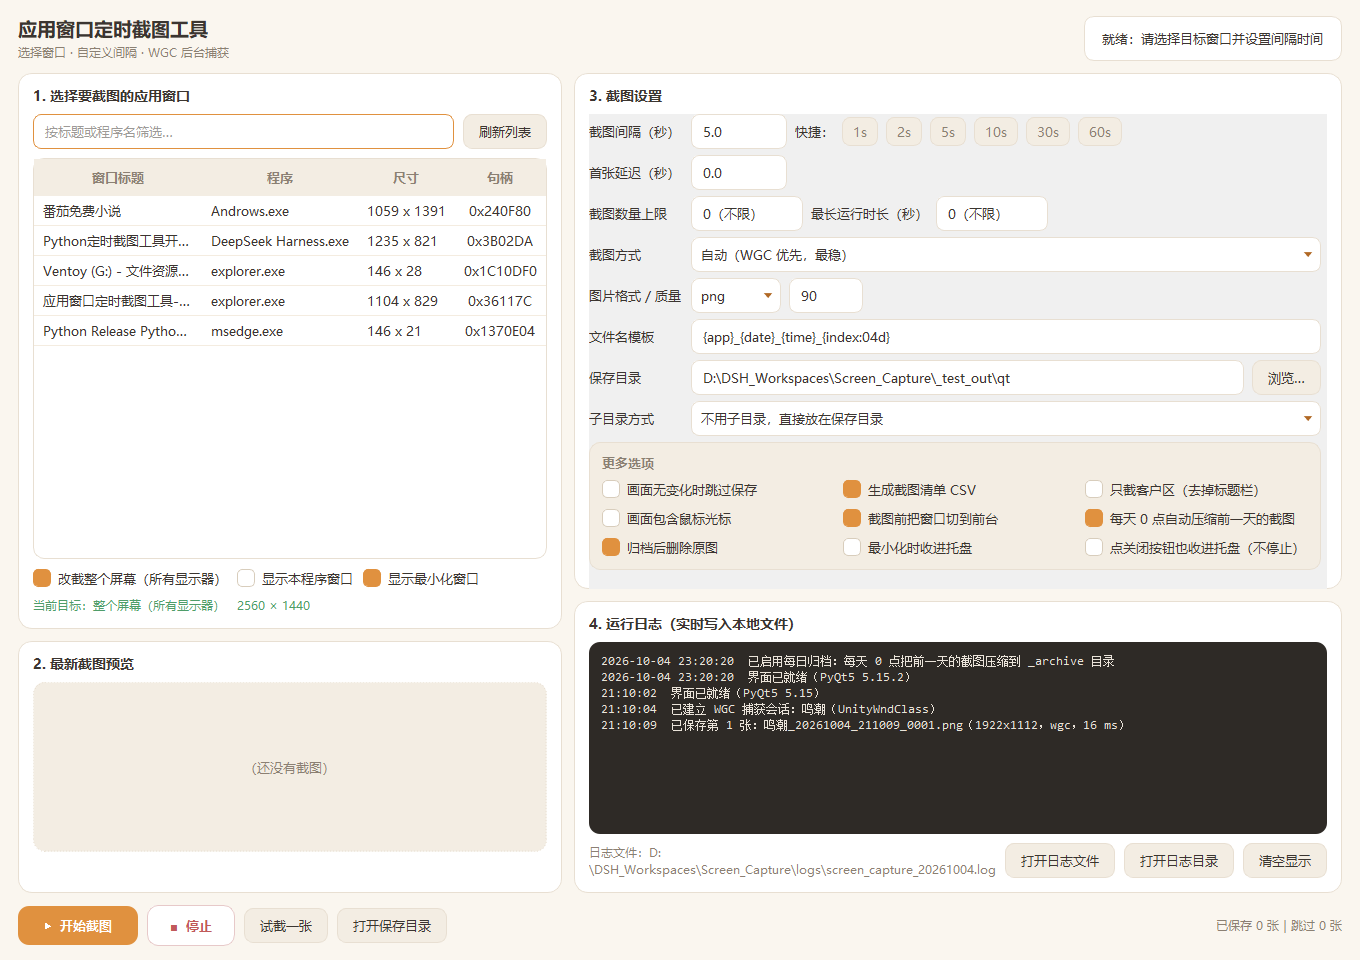
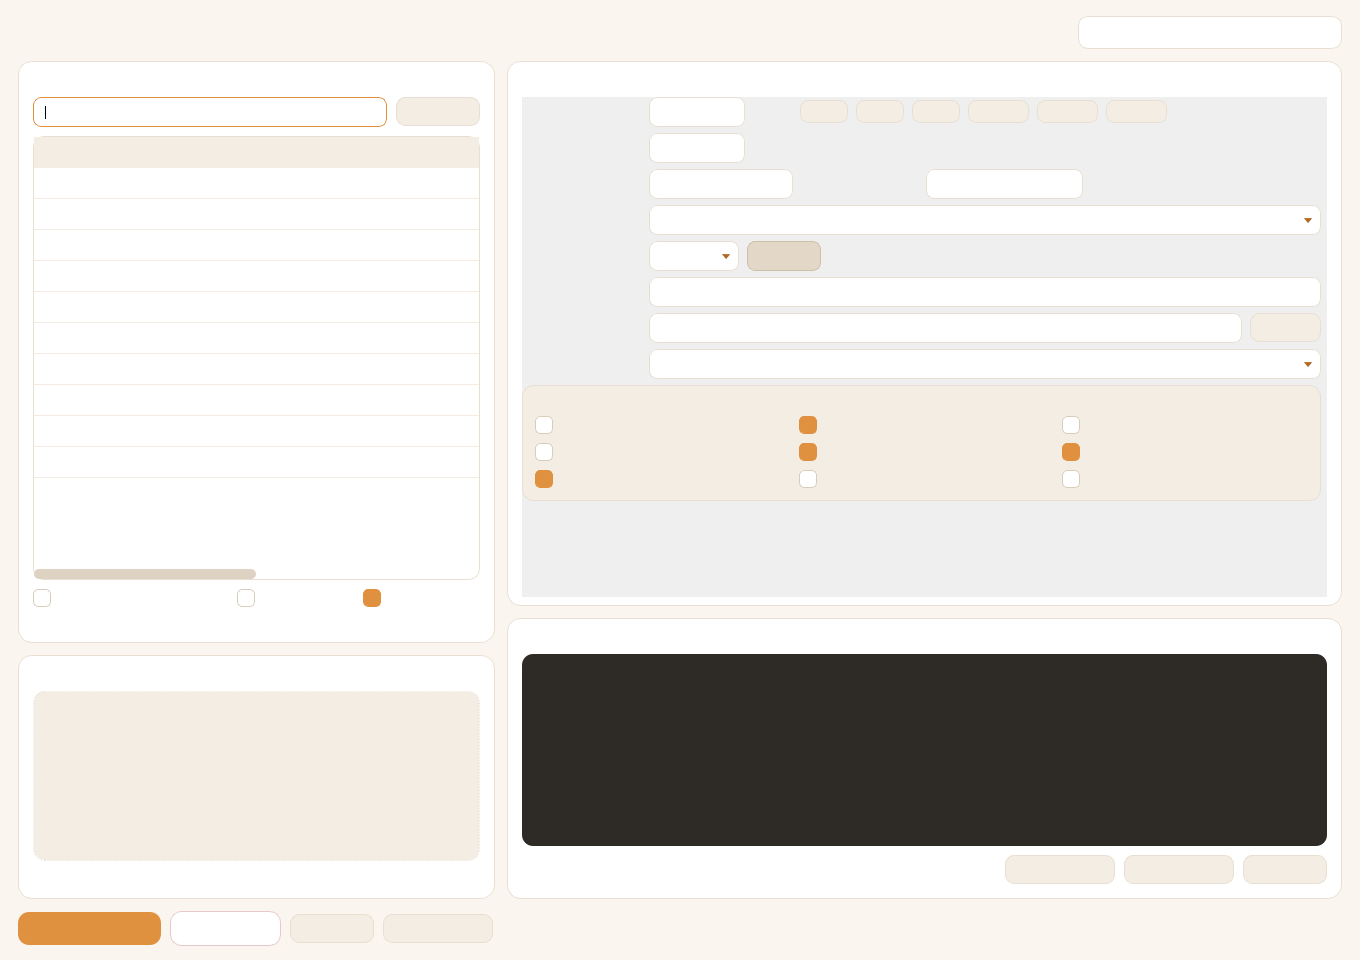
禁用态一眼可见：加深输入框底色与边框（并修掉 Qt 样式表坑）
反馈：选到 PNG/BMP 时质量框虽然禁用了，但看起来和可编辑没区别。
- 禁用态改用明显加深的填充 #e3d8c7 + 边框 #cdbfa8 + 灰字，与启用态白底 #ffffff 一眼可分
- 踩坑记录：给 QSpinBox:disabled::up-button 单独设样式会让 Qt 把禁用配色画到启用态上，
  导致启用/禁用长得一样（已删除该规则，并加回归测试用像素颜色守住）
- 测试隔离：质量用例会切换格式并写回设置，导致后续截图用例写出 .jpg；setUp 里重置为 png
- 版本 1.0.9

diff --git a/tests/test_gui_qt.py b/tests/test_gui_qt.py
@@ -51,6 +51,12 @@ class QtUiTests(unittest.TestCase):
 
     def setUp(self):
         self.win = MainWindow()
+        # 每个用例都从固定状态开始：格式 png、目录不用子目录之外的一切按设置文件来。
+        # （质量相关的用例会切换格式，而设置会在 tearDown 里存回 ini，
+        #   不重置的话后面的截图用例就会写出 .jpg，与 *.png 断言对不上。）
+        self.win.format_combo.setCurrentText("png")
+        self.win.on_format_changed()
+        self.win.quality_spin.setValue(90)
         self.app.processEvents()
 
     def tearDown(self):
@@ -199,6 +205,33 @@ class QtUiTests(unittest.TestCase):
             else:
                 self.assertIn("无损", self.win.quality_hint.text())
         print("  [info] 质量参数仅对 JPG/WEBP 生效，PNG/BMP 自动禁用并提示")
+
+    def test_disabled_quality_is_visibly_different(self):
+        """禁用态必须一眼看得出（底色加深），而且不能把启用态也染色。
+
+        踩过的坑：给 QSpinBox:disabled::up-button 单独设样式，会让 Qt 把禁用配色
+        画到启用态的 QSpinBox 上，于是启用/禁用看起来一模一样。
+        """
+        from PyQt5.QtCore import QPoint
+
+        self.win.show()
+        self.pump(0.3)
+
+        def body_color(fmt: str) -> str:
+            self.win.format_combo.setCurrentText(fmt)
+            self.win.on_format_changed()
+            self.pump(0.2)
+            spin = self.win.quality_spin
+            point = spin.mapTo(self.win, QPoint(int(spin.width() * 0.3), spin.height() // 2))
+            image = self.win.grab().toImage()
+            return image.pixelColor(point.x(), point.y()).name()
+
+        disabled = body_color("png")
+        enabled = body_color("jpg")
+        self.assertNotEqual(disabled, enabled, "PNG 禁用态与 JPG 启用态颜色不能相同")
+        self.assertEqual(enabled, "#ffffff", f"启用态应当是白底，实际 {enabled}")
+        self.assertNotEqual(disabled, "#ffffff", "禁用态不应该是白底")
+        print(f"  [info] 质量框：启用态 {enabled} / 禁用态 {disabled}（肉眼可区分）")
 
     def test_new_options_and_arrow(self):
         """更多选项要齐全，下拉框要有箭头图片。"""

diff --git a/screen_capture/gui_qt.py b/screen_capture/gui_qt.py
@@ -61,6 +61,10 @@ OK_COLOR = "#4F9D69"
 WARN_BG = "#FFF4E3"
 WARN_BORDER = "#E9C88A"
 WARN_TEXT = "#8A5A12"
+# 禁用态：明显加深的遮罩色，让「这项当前不生效」一眼可见
+DISABLED_BG = "#E3D8C7"
+DISABLED_BORDER = "#CDBFA8"
+DISABLED_TEXT = "#9C8F7C"
 
 # 单实例的命名管道名：必须按「用户 + 会话」区分！
 # 服务器上多人同时用时，如果名字是全机器共享的，第二个用户启动程序会连上
@@ -177,6 +181,17 @@ QLineEdit, QComboBox, QSpinBox, QDoubleSpinBox {{
     background: {SURFACE}; border: 1px solid {BORDER}; border-radius: 8px; padding: 6px 9px; selection-background-color: {PRIMARY};
 }}
 QLineEdit:focus, QComboBox:focus, QSpinBox:focus, QDoubleSpinBox:focus {{ border: 1px solid {PRIMARY}; }}
+/* 禁用态：加深遮罩，明确表示「当前格式下这项不生效」 */
+QSpinBox:disabled, QDoubleSpinBox:disabled, QLineEdit:disabled, QComboBox:disabled {{
+    background: {DISABLED_BG};
+    border: 1px solid {DISABLED_BORDER};
+    color: {DISABLED_TEXT};
+}}
+/* ⚠ 不要给 :disabled 的 up-button/down-button 单独设样式：
+   实测那样会让 Qt 把禁用配色也画到「启用态」的 QSpinBox 上（整体变深），
+   结果启用/禁用看起来一模一样。只改背景 / 边框 / 文字就足够区分。 */
+QCheckBox:disabled {{ color: {DISABLED_TEXT}; }}
+QPushButton:disabled {{ color: {DISABLED_TEXT}; background: {DISABLED_BG}; border-color: {DISABLED_BORDER}; }}
 QComboBox {{ padding-right: 26px; }}
 QComboBox::drop-down {{
     subcontrol-origin: padding; subcontrol-position: center right;

diff --git a/build_exe.py b/build_exe.py
@@ -30,8 +30,8 @@ ASSETS = ROOT / "assets"
 # （dist 里的程序正在运行时文件会被占用，这时就用它换个目录打包）
 DIST = Path(os.environ.get("SCREEN_CAPTURE_DIST") or (ROOT / "dist"))
 BUILD = ROOT / "build"
-VERSION = (1, 0, 8, 0)
-VERSION_TEXT = "1.0.8.0"
+VERSION = (1, 0, 9, 0)
+VERSION_TEXT = "1.0.9.0"
 
 GUI_NAME = "应用窗口定时截图工具"
 CLI_NAME = "应用窗口定时截图工具-命令行"

diff --git a/README.md b/README.md
@@ -17,7 +17,7 @@
 
 | 平台 | 下载 |
 | --- | --- |
-| **Gitee（推荐）** | [⬇ ScreenCaptureTool_v1.0.6_portable_win64.zip](https://gitee.com/silence95/Screen_Capture/releases/download/v1.0.8/ScreenCaptureTool_v1.0.8_portable_win64.zip) |
+| **Gitee（推荐）** | [⬇ ScreenCaptureTool_v1.0.6_portable_win64.zip](https://gitee.com/silence95/Screen_Capture/releases/download/v1.0.9/ScreenCaptureTool_v1.0.9_portable_win64.zip) |
 | GitHub（归档） | [⬇ ScreenCaptureTool_v1.0.4_portable_win64.zip](https://github.com/silencezcp/Screen_Capture/releases/download/v1.0.4/ScreenCaptureTool_v1.0.4_portable_win64.zip) |
 
 代码仓库同步在 [Gitee](https://gitee.com/silence95/Screen_Capture)（主仓库）、
